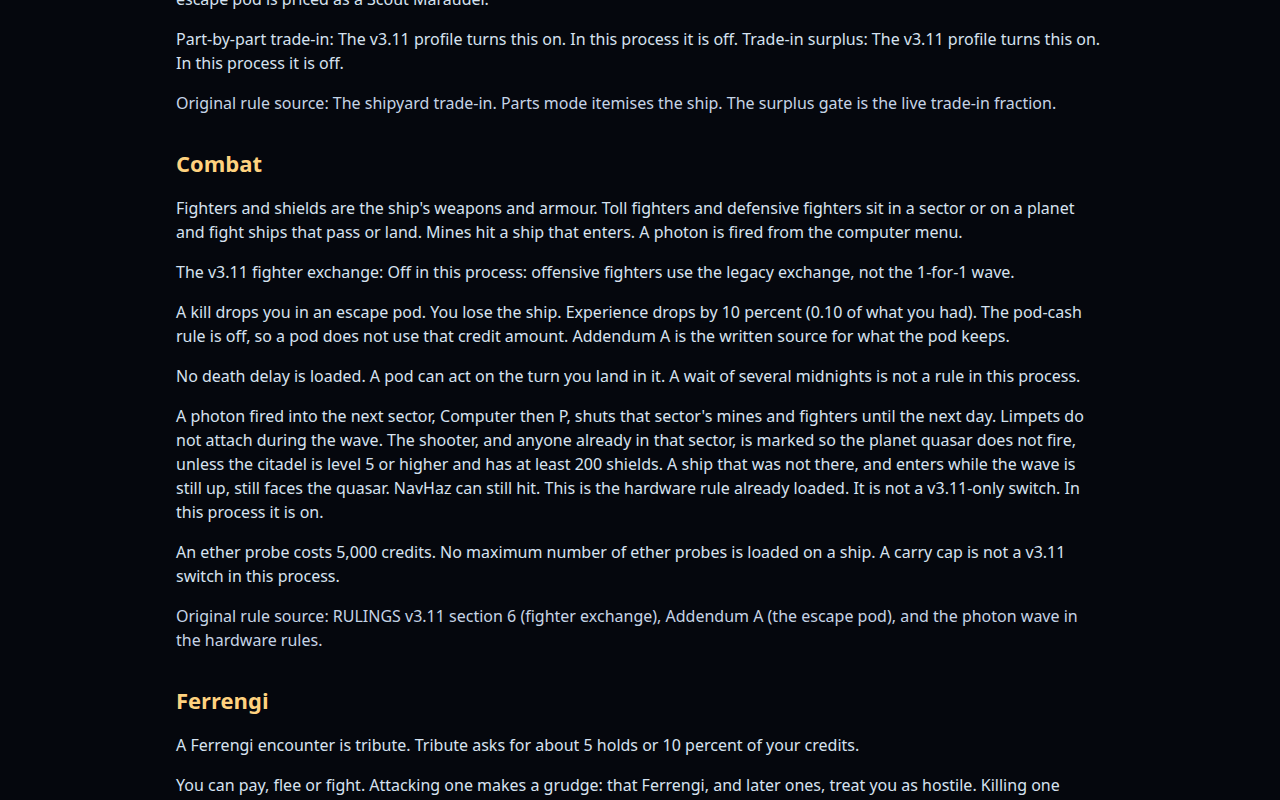
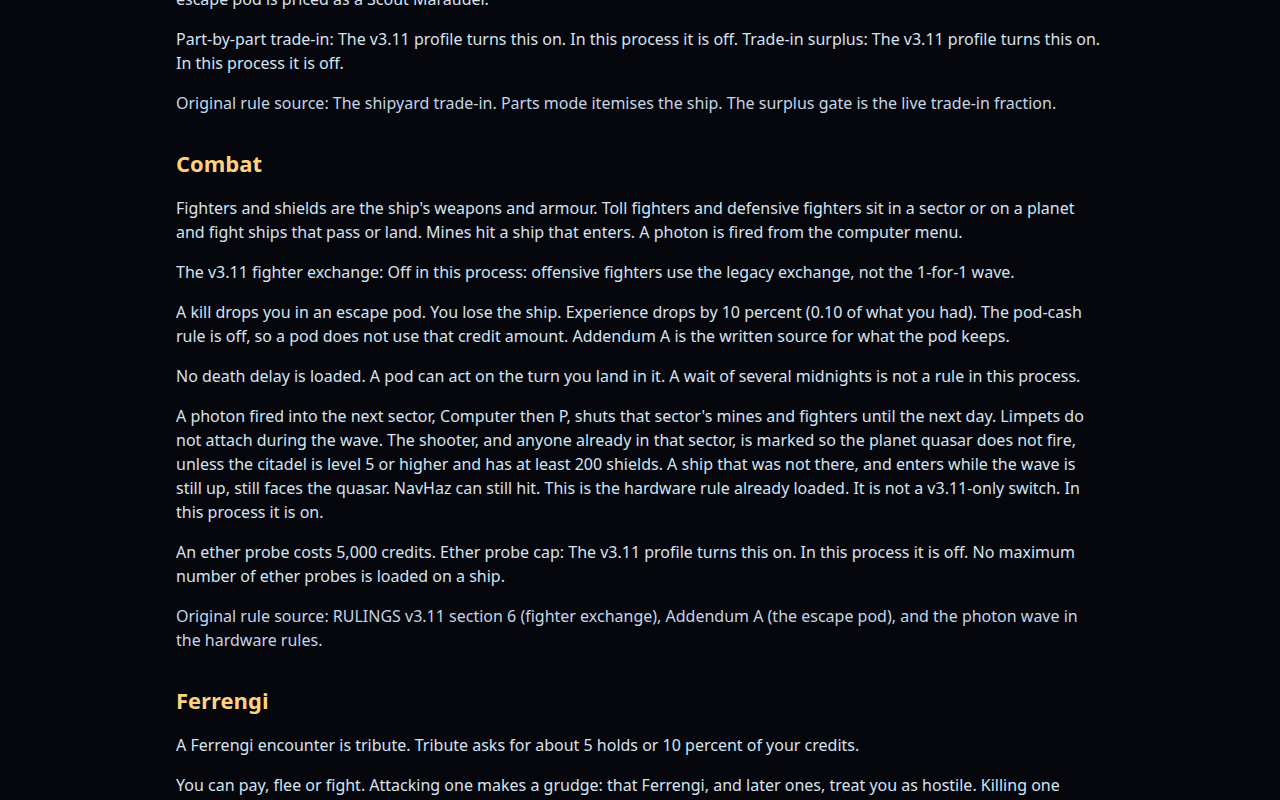
Describe the bust interval, the 25-probe cap, and corp-planet disband as v3.11 profile switches.
Death delay and the following-ship quasar damp stay unloaded. A game set to 7 days is what the bust page reports.

Changed region(s): [[0.125, 0.6875, 0.8438, 0.75]]

diff --git a/src/tw2k/public/manual.py b/src/tw2k/public/manual.py
@@ -155,6 +155,7 @@ def _facts(config) -> dict:
         "tax_align": int(align),
         "max_days": max_days,
         "scoped": config is not None,
+        "bust_clear_days": getattr(config, "bust_clear_days", None) if config is not None else None,
     }
 
 
@@ -306,7 +307,7 @@ def _trading(f: dict) -> str:
         f"The older window runs from {_n(K.PORT_HAGGLE_MIN_PCT)} to {_n(K.PORT_HAGGLE_MAX_PCT)} percent. "
         f"A failed haggle costs {_n(K.PORT_HAGGLE_FAIL_TURNS)} turn.</p>"
         + _buy_anchor()
-        + _busts()
+        + _busts(f)
         + _src("Port haggling notes (HAGGLE.md), the live buy-price anchor, and the bust clear on the day tick.")
     )
 
@@ -514,7 +515,8 @@ def _corp_planets() -> str:
             "Planets you owned for the corporation become the C.E.O.'s when you leave. "
             "You do not keep them."
         )
-    if K.CORP_DISBAND_PLANETS == "v306":
+    v306 = K.corp_planet_disband_v306()
+    if v306:
         end = (
             "When the corporation ends, planets in the C.E.O.'s sector become the C.E.O.'s. "
             "Every other corporation planet is unclaimed."
@@ -525,8 +527,7 @@ def _corp_planets() -> str:
             "A planet whose owner is gone is unclaimed."
         )
     return (
-        f"<p>{leave} {end} "
-        "This planet rule is already loaded. It is not a v3.11-only switch.</p>"
+        f"<p>{leave} {_profile('Corp planet disband', v306, only_v311=False)} {end}</p>"
     )
 
 
@@ -661,20 +662,34 @@ def _buy_anchor() -> str:
     )
 
 
-def _busts() -> str:
-    if K.rob_tw2002():
-        body = (
-            "If you are busted at a port, you cannot trade, rob, or steal there until the next day. "
-            "The day clears every bust."
+def _busts(f: dict) -> str:
+    on = K.rob_tw2002() and K.bust_record_clear_live()
+    days = f.get("bust_clear_days")
+    if not K.rob_tw2002():
+        rule = "Port busts are not in force."
+    elif not on:
+        rule = (
+            "A bust blocks trade, rob, and steal at that port until the next day. "
+            "Every day clears every bust. A game setting of 7 is ignored."
         )
-        state = "on"
+    elif days == 7:
+        rule = (
+            "A bust blocks trade, rob, and steal at that port until the records clear. "
+            "This game clears bust records every 7 days, when the day number is a multiple of 7."
+        )
+    elif days == 1:
+        rule = (
+            "A bust blocks trade, rob, and steal at that port until the next day. "
+            "This game clears bust records every 1 day."
+        )
     else:
-        body = "Port busts are not in force."
-        state = "off"
-    return (
-        f"<p>{body} This is the rob rule already loaded. It is not a v3.11-only switch. "
-        f"In this process it is {state}.</p>"
-    )
+        rule = (
+            "A bust blocks trade, rob, and steal at that port until the records clear. "
+            "No interval is set, so bust records clear every day. "
+            "A game can set the interval to 1 or to 7. "
+            "7 clears when the day number is a multiple of 7."
+        )
+    return f"<p>{_profile('Bust-clear interval', on, only_v311=False)} {rule}</p>"
 
 
 def _photon_wave() -> str:
@@ -700,10 +715,14 @@ def _photon_wave() -> str:
 
 
 def _probes() -> str:
+    on = K.ship_chart_cap_live()
+    if on:
+        cap = f"A ship stops at {_n(K.PROBE_CHART_MAX)} ether probes. One more is refused."
+    else:
+        cap = "No maximum number of ether probes is loaded on a ship."
     return (
         f"<p>An ether probe costs {_n(K.ether_probe_cost())} credits. "
-        "No maximum number of ether probes is loaded on a ship. "
-        "A carry cap is not a v3.11 switch in this process.</p>"
+        f"{_profile('Ether probe cap', on, only_v311=False)} {cap}</p>"
     )
 
 

diff --git a/tests/test_player_manual_v1.py b/tests/test_player_manual_v1.py
@@ -117,10 +117,14 @@ def test_added_sections_follow_the_engine_and_name_v311_only_rules(monkeypatch) 
     assert "until the next day" in legacy
     assert "still faces the quasar" in legacy
     assert "200 shields" in legacy
-    assert "The day clears every bust." in legacy
+    assert "Bust-clear interval: The v3.11 profile turns this on. In this process it is off." in legacy
+    assert "Every day clears every bust." in legacy
+    assert "Ether probe cap: The v3.11 profile turns this on. In this process it is off." in legacy
+    assert "No maximum number of ether probes" in legacy
+    assert "Corp planet disband: The v3.11 profile turns this on. In this process it is off." in legacy
+    assert "stays with its owner" in legacy
     assert "not a v3.11-only switch" in legacy
     assert f"{K.ether_probe_cost():,} credits" in legacy
-    assert "No maximum number of ether probes" in legacy
     assert "No death delay is loaded." in legacy
     assert "Prime Evil" in legacy
     assert "Captain First" not in legacy
@@ -150,6 +154,16 @@ def test_added_sections_follow_the_engine_and_name_v311_only_rules(monkeypatch) 
     assert K.ether_probe_cost() == K.ETHER_PROBE_COST_LIVE
     assert "still faces the quasar" in live
     assert "No death delay is loaded." in live
+    assert "Bust-clear interval: The v3.11 profile turns this on. In this process it is on." in live
+    assert "No interval is set, so bust records clear every day." in live
+    assert "A game can set the interval to 1 or to 7." in live
+    assert "Ether probe cap: The v3.11 profile turns this on. In this process it is on." in live
+    assert f"stops at {K.PROBE_CHART_MAX} ether probes" in live
+    assert "Corp planet disband: The v3.11 profile turns this on. In this process it is on." in live
+    assert "planets in the C.E.O.'s sector become the C.E.O.'s" in live
+    weekly = render("Galaxy War Command", GameConfig(bust_clear_days=7))
+    assert "every 7 days" in weekly
+    assert "No interval is set" not in weekly
 
     monkeypatch.setattr(K, "PHOTON_WAVE_DURATION", 3)
     longer = render("Galaxy War Command")
